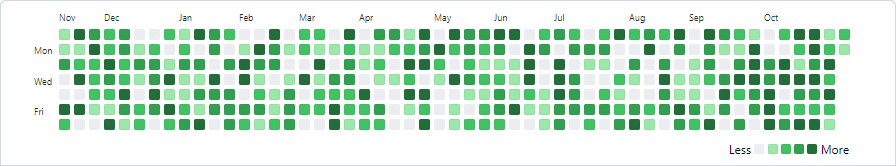
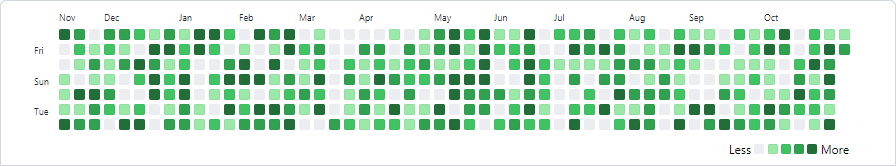
fix: 星期几对应位置

Changed region(s): [[0.0312, 0.1506, 0.9688, 0.7831]]

diff --git a/src/App.vue b/src/App.vue
@@ -1,6 +1,11 @@
 <script setup lang="ts">
 import { onMounted } from "vue";
-import { formateDate, getOneYearbeforeDay, nextDay } from "./utils";
+import {
+  formateDate,
+  getOneYearbeforeDay,
+  nextDay,
+  getDayOfWeek,
+} from "./utils";
 const MONTH = [
   "January",
   "February",
@@ -15,7 +20,15 @@ const MONTH = [
   "November",
   "December",
 ];
-const DAY = ["Monday", "Wednesday", "Friday"];
+const DAY = [
+  "Sunday",
+  "Monday",
+  "Tuesday",
+  "Wednesday",
+  "Thursday",
+  "Friday",
+  "Saturday",
+];
 const namespaceURI = "http://www.w3.org/2000/svg";
 onMounted(() => {
   let content = document.querySelector("#footprint g");
@@ -25,14 +38,15 @@ onMounted(() => {
   initSummay();
 });
 const initDay = (content: any) => {
-  for (let i = 0; i < DAY.length; i++) {
-    const day = DAY[i];
+  let startWeek = getDayOfWeek(getOneYearbeforeDay()) + 1;
+  for (let i = 1; i <= 3; i++) {
+    const day = DAY[(startWeek + (i - 1) * 2) % 7];
     let textDom: any = document.createElementNS(namespaceURI, "text");
     textDom.setAttributeNS(null, "dx", "-10");
-    // 在线多项式曲线及曲线函数拟合工具 http://tools.jb51.net/jisuanqi/create_fun
+    // 在线多项式曲线及曲线函数拟合工具
+    // http://tools.jb51.net/jisuanqi/create_fun
     // -0.5*x*x+32.5*x-7
-    let x = i + 1;
-    textDom.setAttributeNS(null, "dy", String(-0.5 * x * x + 32.5 * x - 7));
+    textDom.setAttributeNS(null, "dy", String(-0.5 * i * i + 32.5 * i - 7));
     textDom.setAttributeNS(null, "class", "ContributionCalendar-label");
     textDom.textContent = day.substring(0, 3);
     content.appendChild(textDom);
@@ -66,7 +80,7 @@ const initRect = (content: any) => {
       if (oneYearBeforeDay > new Date().getTime()) {
         break;
       }
-      let dataLevel = getDataLevel();
+      let dataLevel = "0" || getDataLevel();
       let date = formateDate(oneYearBeforeDay);
       let rectDom: any = document.createElementNS(namespaceURI, "rect");
       let attr: any = {
@@ -125,6 +139,12 @@ const initSummay = () => {
     </svg>
     <div class="summary"></div>
   </div>
+  <!-- <div class="vertical-content">
+    <svg class="vertical" id="footprint" width="828" height="128">
+      <g transform="translate(10, 20)"></g>
+    </svg>
+    <div class="summary"></div>
+  </div> -->
 </template>
 
 <style>
@@ -153,6 +173,7 @@ body {
 }
 #app {
   display: flex;
+  flex-wrap: wrap;
   align-items: center;
   justify-content: center;
   height: 100%;
@@ -164,6 +185,9 @@ body {
   border: 1px solid var(--color-border-default);
   text-align: center;
   width: 894px;
+}
+.vertical {
+  transform: translate(32px, 806px) rotate(270deg);
 }
 .ContributionCalendar-label {
   font-size: 9px;

diff --git a/src/utils.ts b/src/utils.ts
@@ -25,4 +25,11 @@ function nextDay(time: number) {
   return nextDay.getTime();
 }
 
-export { formateDate, getOneYearbeforeDay, nextDay };
+// get Day of the week
+function getDayOfWeek(time: number) {
+  let date = new Date(time);
+  let day = date.getDay();
+  return day;
+}
+
+export { formateDate, getOneYearbeforeDay, nextDay, getDayOfWeek };
